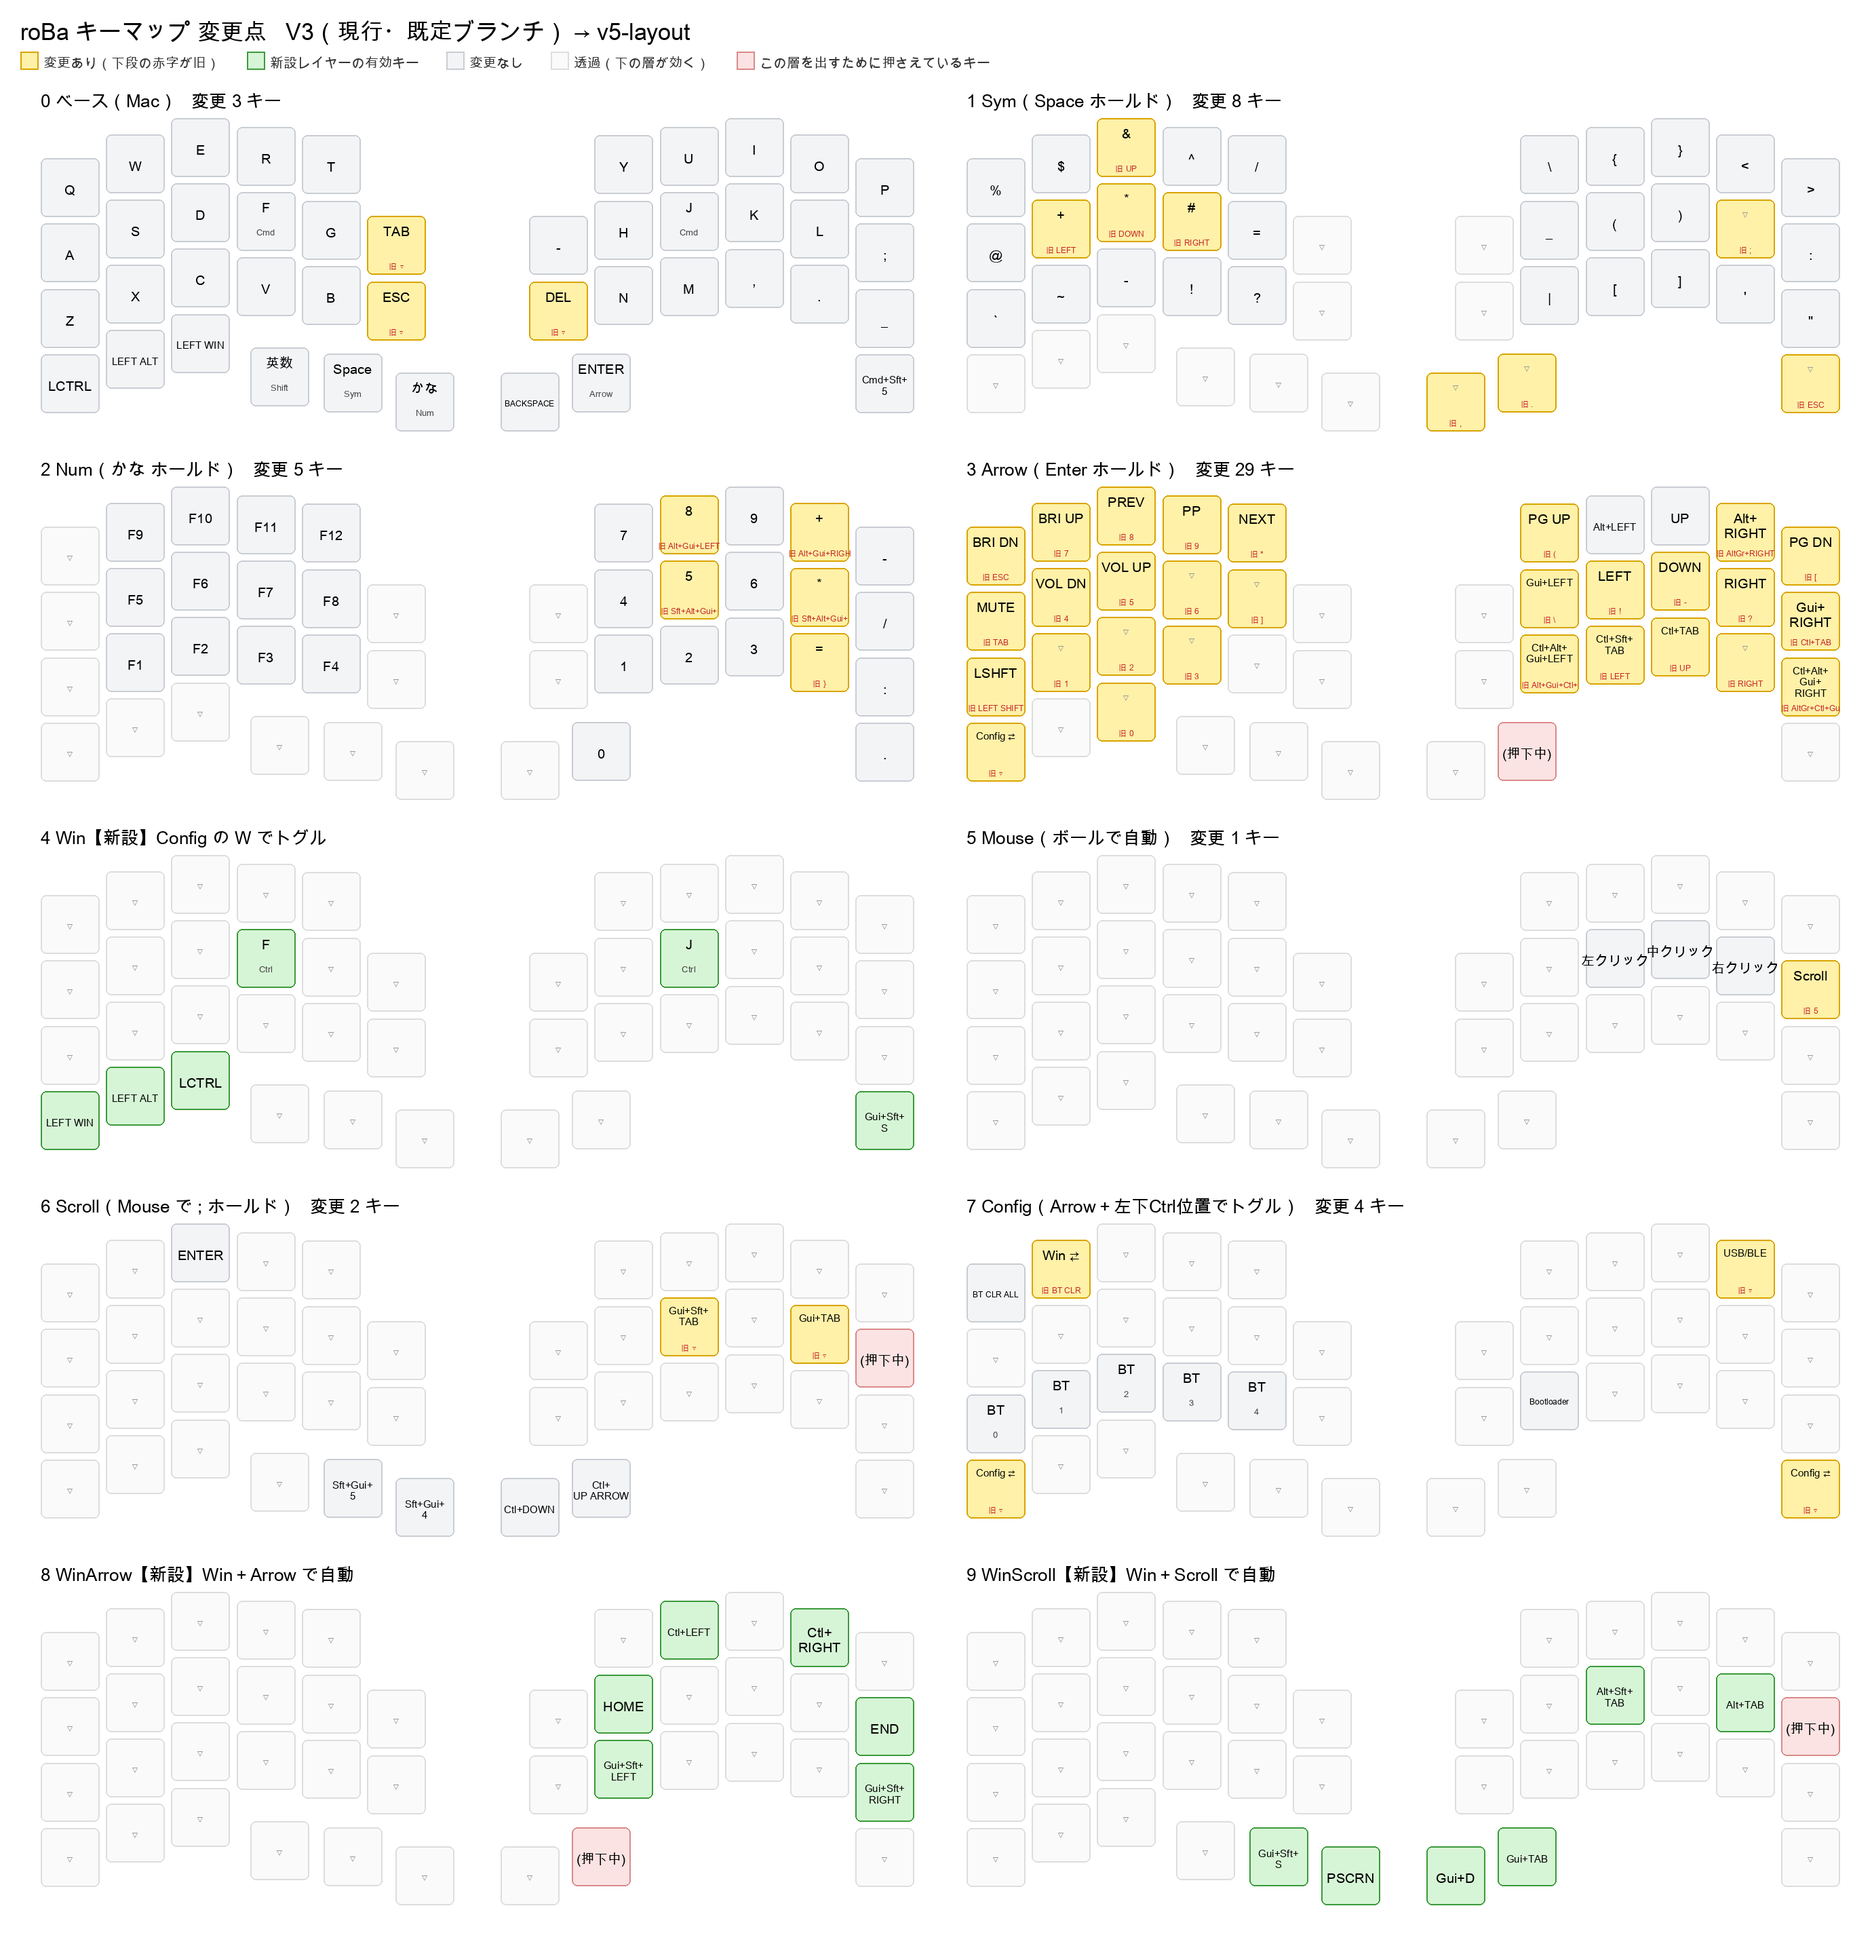
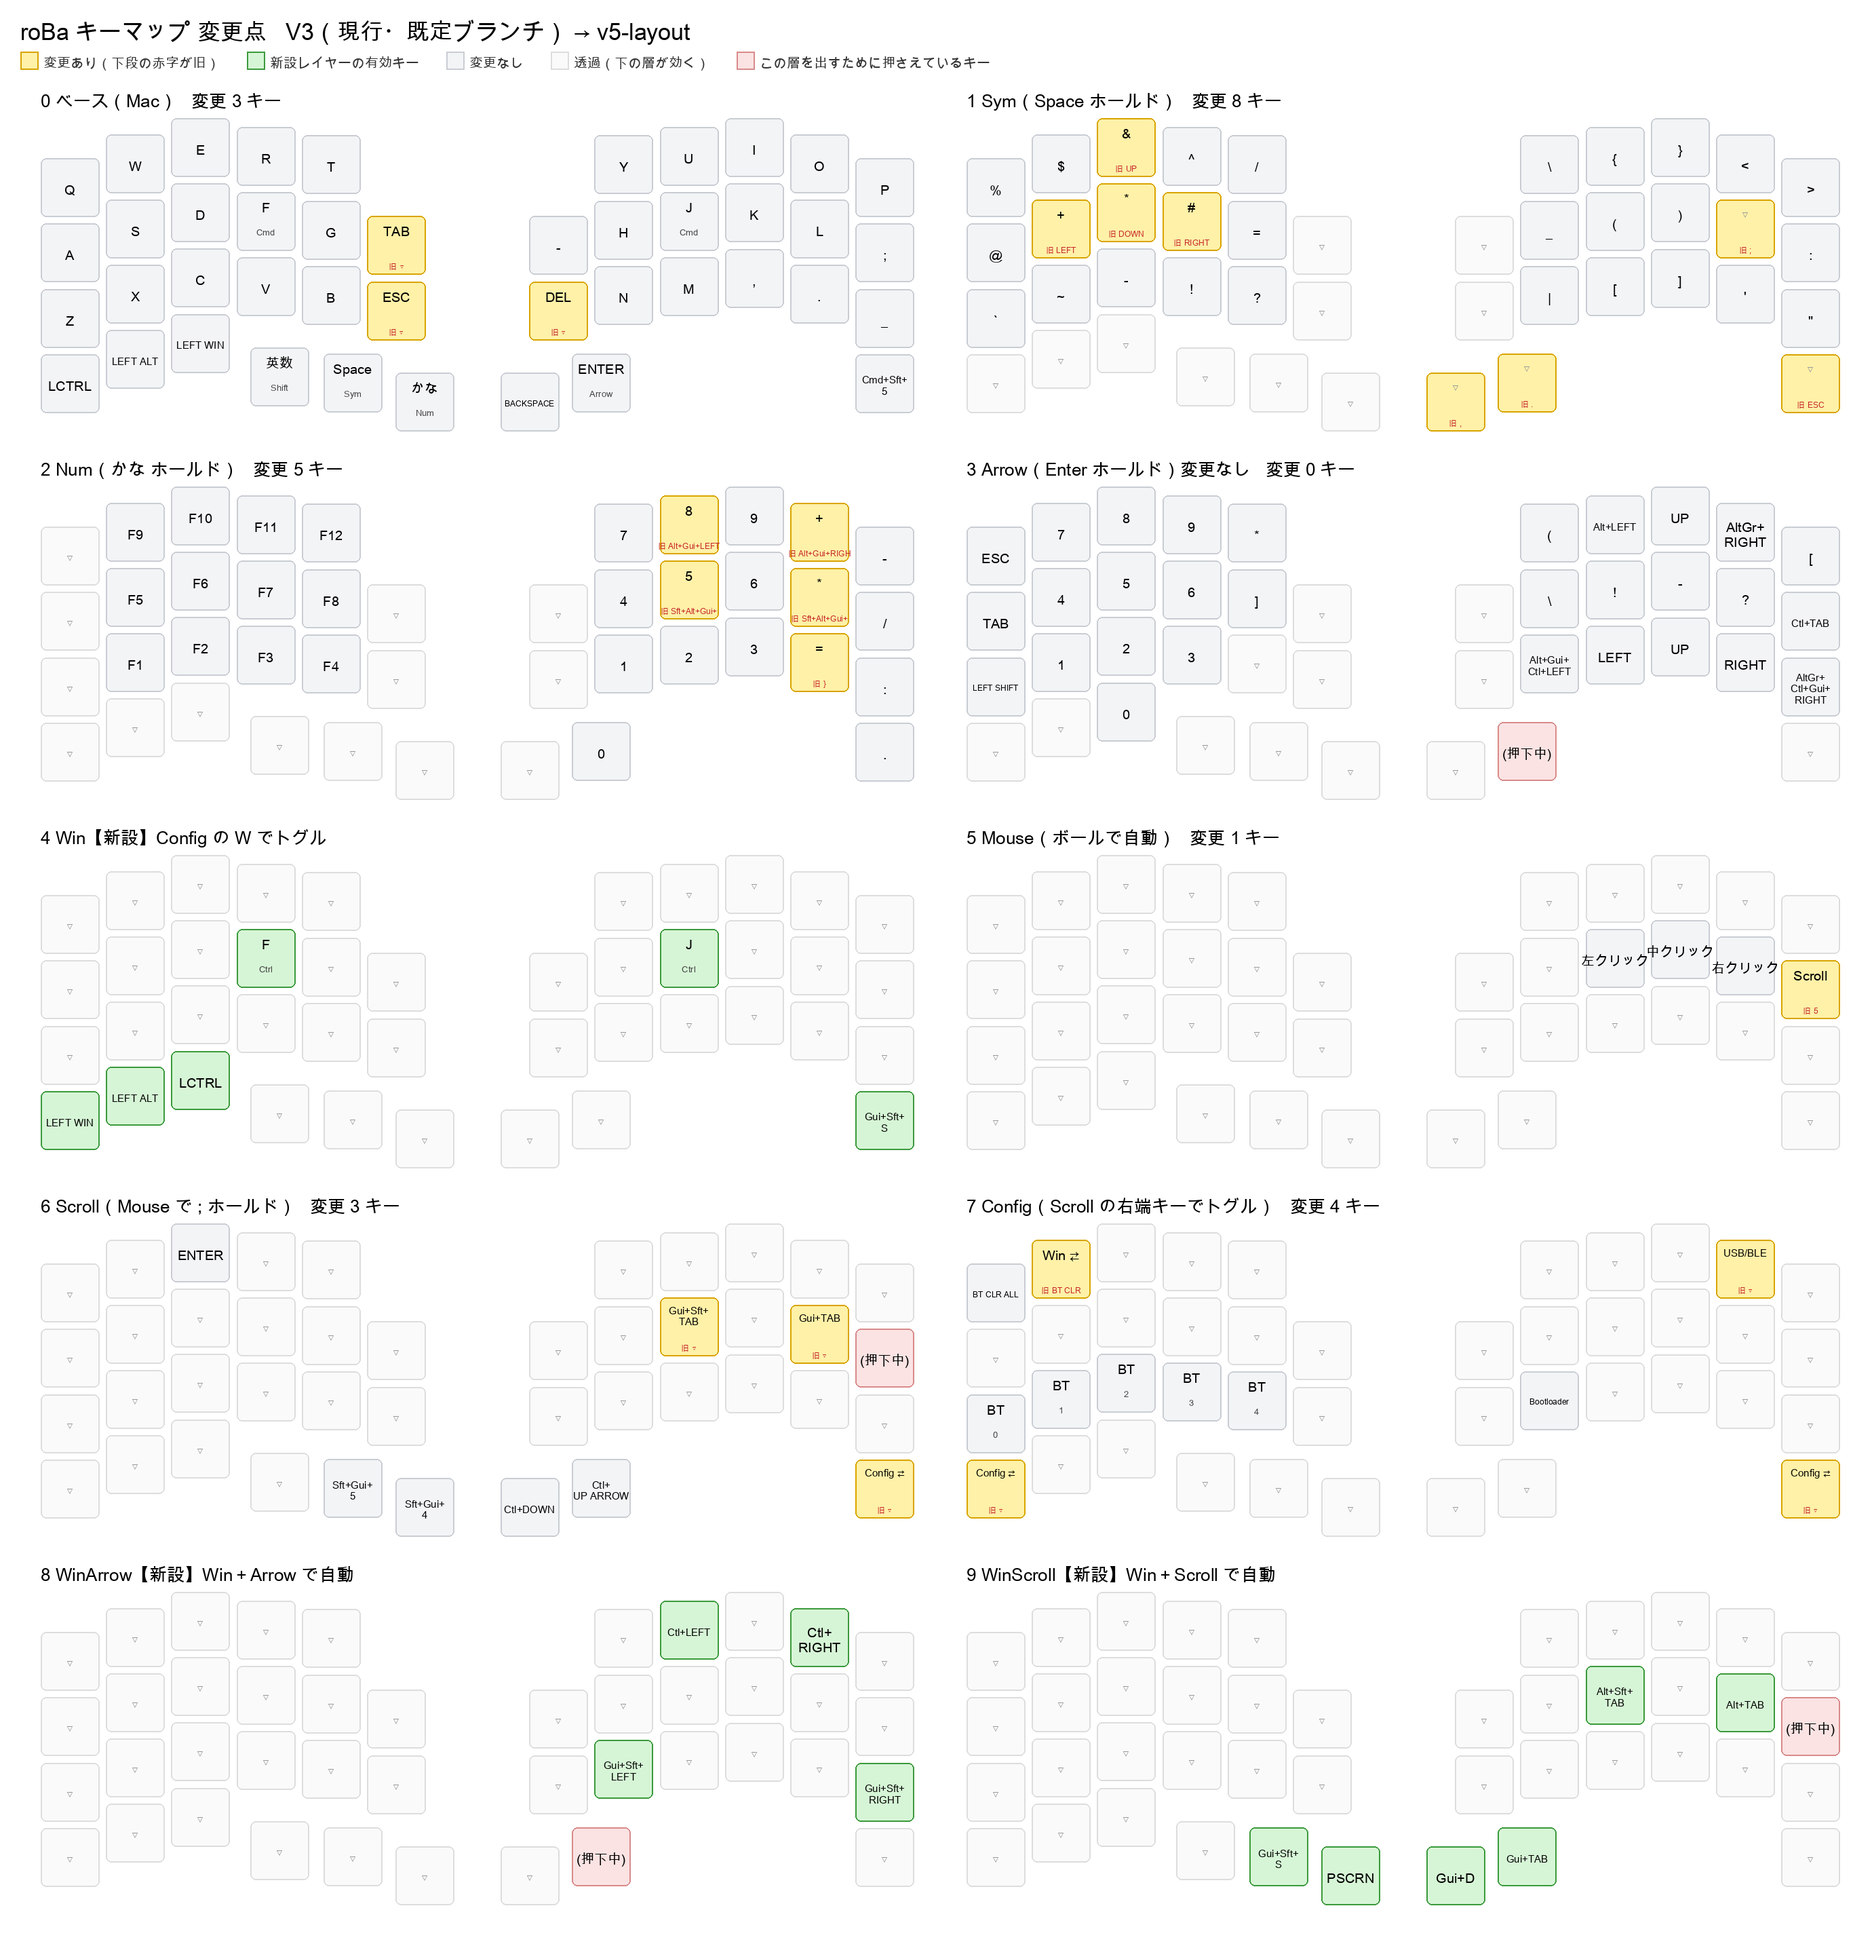
Arrow 層を V3 のまま維持し、CONFIG の入口を Scroll 右端（V4 方式）へ

diff --git a/keymap-drawer/draw_diff.py b/keymap-drawer/draw_diff.py
@@ -24,9 +24,9 @@ U = 96; KW = U - 10
 PAD = 30; TITLE_H = 54
 LW = int(13.6 * U) + 2 * PAD; LH = int(5.1 * U) + TITLE_H
 ORDER = ["Mac","Sym","Num","Arrow","Win","Mouse","Scroll","Config","WinArrow","WinScroll"]
-DESC = {"Mac":"0 ベース（Mac）","Sym":"1 Sym（Space ホールド）","Num":"2 Num（かな ホールド）","Arrow":"3 Arrow（Enter ホールド）",
+DESC = {"Mac":"0 ベース（Mac）","Sym":"1 Sym（Space ホールド）","Num":"2 Num（かな ホールド）","Arrow":"3 Arrow（Enter ホールド）変更なし",
         "Win":"4 Win【新設】Config の W でトグル","Mouse":"5 Mouse（ボールで自動）","Scroll":"6 Scroll（Mouse で ; ホールド）",
-        "Config":"7 Config（Arrow＋左下Ctrl位置でトグル）","WinArrow":"8 WinArrow【新設】Win＋Arrow で自動","WinScroll":"9 WinScroll【新設】Win＋Scroll で自動"}
+        "Config":"7 Config（Scroll の右端キーでトグル）","WinArrow":"8 WinArrow【新設】Win＋Arrow で自動","WinScroll":"9 WinScroll【新設】Win＋Scroll で自動"}
 COLS = 2; ROWS = math.ceil(len(ORDER)/COLS)
 HEAD = 120
 img = Image.new("RGB", (LW*COLS + PAD, HEAD + LH*ROWS + PAD), "white")
